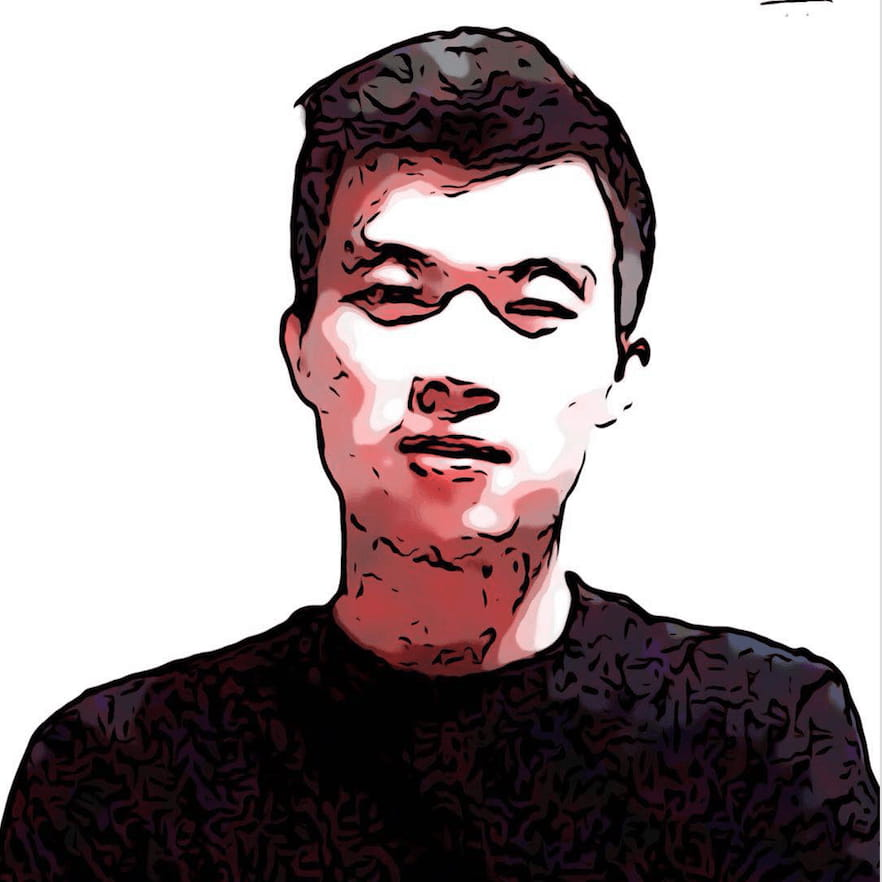
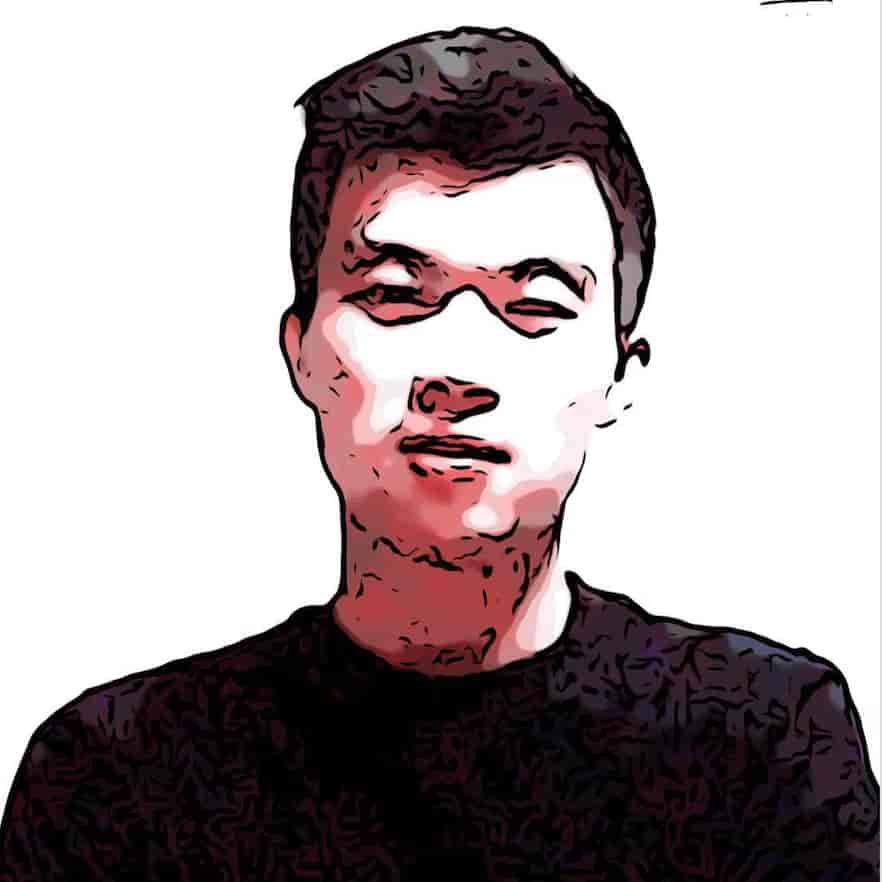
photo compression

diff --git a/src/components/common/personAbstract.vue b/src/components/common/personAbstract.vue
@@ -1,6 +1,6 @@
 <template>
 <div class="container">
-  <img class="avatar" src="../../assets/image/person-photo.png"></img>
+  <img class="avatar" src="../../assets/image/person-photo.jpeg"></img>
   <a @click="create_page">
     <h3 class="nick-name" @click="scroll">Gaius</h3>
   </a>
